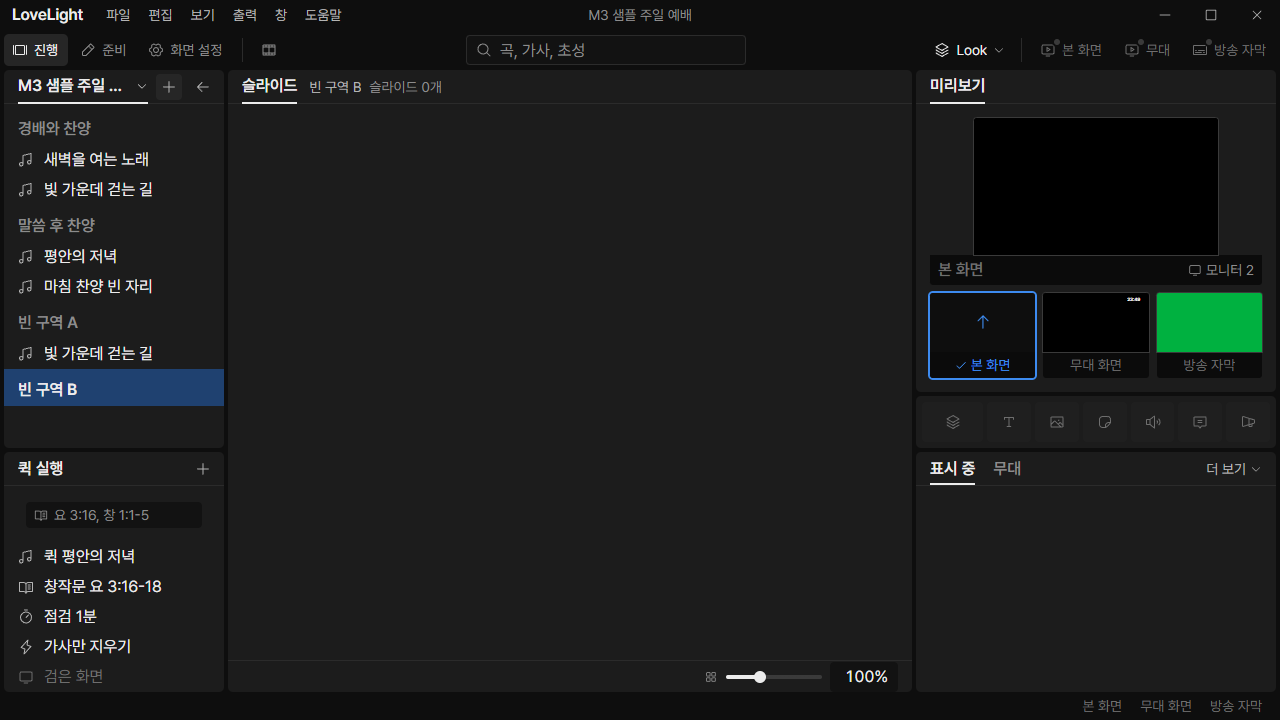
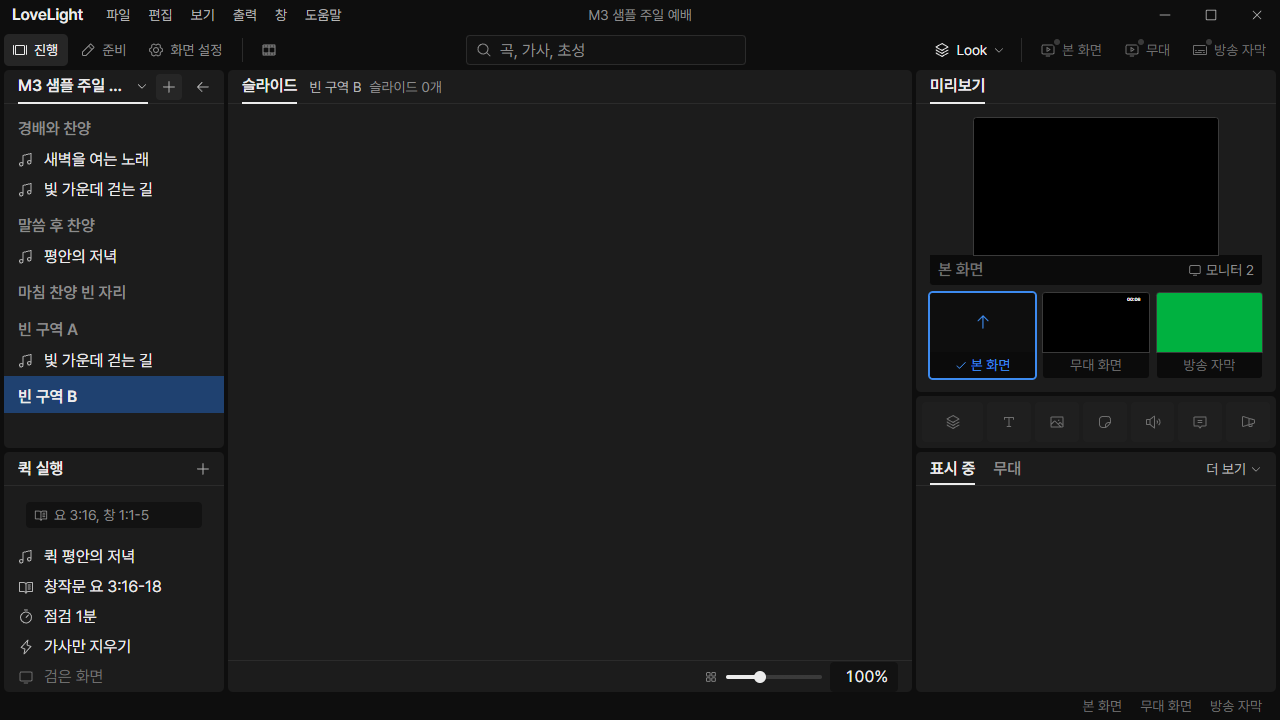
fix(show): defer section rename until the menu releases focus

Changed region(s): [[0.0, 0.3667, 0.1875, 0.5806]]

diff --git a/src/renderer/src/show/ServiceOrderList.tsx b/src/renderer/src/show/ServiceOrderList.tsx
@@ -187,6 +187,10 @@ export function ServiceOrderList({
     serviceId: string | null;
     anchor: MenuAnchor;
   } | null>(null);
+  const [pendingRename, setPendingRename] = useState<{
+    readonly id: string;
+    readonly serviceId: string | null;
+  } | null>(null);
   const listRef = useRef<HTMLDivElement>(null);
   const [chosenRename, setRenaming] = useState<string | null>(null);
   const requestedRename = useHeaderRename(state => state.requested);
@@ -199,6 +203,23 @@ export function ServiceOrderList({
     setRenaming(null);
     clearRenameRequest();
   };
+
+  useEffect(() => {
+    if (menu !== null || pendingRename === null) return;
+    // NOTE(0913vision): Menu restores its opener on cleanup; the field must
+    // take focus after that handoff rather than blur and commit immediately.
+    const handoff = setTimeout(() => {
+      setPendingRename(null);
+      if (
+        pendingRename.serviceId === serviceId &&
+        editable &&
+        rows.some(row => row.id === pendingRename.id && row.kind === 'header')
+      ) {
+        setRenaming(pendingRename.id);
+      }
+    });
+    return () => clearTimeout(handoff);
+  }, [menu, pendingRename, serviceId, editable, rows]);
 
   useEffect(() => {
     const list = listRef.current;
@@ -362,7 +383,10 @@ export function ServiceOrderList({
                     label: '이름 바꾸기',
                     disabled: !editable,
                     onSelect: () => {
-                      setRenaming(menu.id);
+                      setPendingRename({
+                        id: menu.id,
+                        serviceId: menu.serviceId,
+                      });
                       setMenu(null);
                     },
                   },

diff --git a/src/renderer/src/show/ServiceOrderEditing.test.tsx b/src/renderer/src/show/ServiceOrderEditing.test.tsx
@@ -151,6 +151,25 @@ beforeEach(() => {
 });
 
 describe('service panel editing', () => {
+  it('hands focus from a selected section context menu to its rename field', async () => {
+    const {api} = setup('prep');
+    const user = userEvent.setup();
+    const section = screen.getByRole('option', {name: '제목'});
+    await user.click(section);
+    section.focus();
+    expect(document.activeElement).toBe(section);
+    fireEvent.contextMenu(section);
+    await user.click(
+      await screen.findByRole('menuitem', {name: '이름 바꾸기'}),
+    );
+    const field = await screen.findByRole('textbox', {name: '제목 이름'});
+    await waitFor(() => expect(document.activeElement).toBe(field));
+    await user.clear(field);
+    await user.type(field, '바뀐 구역{Enter}');
+    await screen.findByRole('option', {name: '바뀐 구역'});
+    expect(api.content.edit).toHaveBeenCalledTimes(1);
+  });
+
   it('selects an empty section and keeps it when a dropped song is added below it', async () => {
     const {ids, send} = setup('prep', false, {emptySection: true});
     const target = screen.getByRole('option', {name: '빈 구역'});
@@ -417,7 +436,7 @@ describe('service panel editing', () => {
     const {api} = setup();
     fireEvent.contextMenu(screen.getByText('제목'));
     fireEvent.click(await screen.findByRole('menuitem', {name: '이름 바꾸기'}));
-    const field = screen.getByRole('textbox', {name: '제목 이름'});
+    const field = await screen.findByRole('textbox', {name: '제목 이름'});
     fireEvent.change(field, {target: {value: '   '}});
     fireEvent.keyDown(field, {key: 'Enter'});
     await waitFor(() => expect(screen.queryByRole('textbox')).toBeNull());

diff --git a/docs/reviews/ui-52.md b/docs/reviews/ui-52.md
@@ -29,12 +29,11 @@ The rebase retains tools-13's midpoint and drag-release click guard. Geometry
 now reads the actual option face for selectable headers; the preserved tests
 cover list-top drops and moving whole sections across the midpoint.
 
-Coordination: spec-58 is on local main (`a5bba3d7`). Data owns legacy
-slot-to-header normalization and its read/write contracts. This request does not
-change the stored format or duplicate normalization. A legacy slot arriving as a
-section uses the same selectable-header path. Existing slot rendering remains
-available until those normalized documents arrive; there is no creation or fill
-action.
+Coordination: spec-58 (`a5bba3d7`) and data-71 normalization (`3ca885ad`) are on
+local main. This request uses data's reader instead of duplicating
+normalization. The migrated-section regression is retained, and the app exercise
+confirms the old sample slot arrives as a selectable header with its title
+preserved.
 
 ## Changes outside my paths
 
@@ -58,25 +57,30 @@ started hidden. CDP drove pointer/key/text input and captured the real window.
 
 - Added two consecutive empty sections, renamed them, selected the first and
   opened 항목 추가. Confirmed the menu has no 빈 자리 entry.
+- Round 2: focused a section, opened its native context menu, chose 이름 바꾸기
+  and waited past menu cleanup. The field stayed focused with its text selected;
+  typed a new name and saved with Enter before continuing the flow.
 - Inserted the library song 빛 가운데 걷는 길 through that menu. Read the
   accepted document through the real API: first header, new song, second header,
   with the first section still selected. Both section rows remain.
 - Switched the two sections back and forth 20 times, then another 20 times.
   Opened/closed the quick-add menu twice. No outputs were enabled.
-- Matched checkpoints retain 430 DOM elements and 9 options. Collected JS heap
-  after warmup was 5,788,568 then 5,951,816 bytes; backing storage was 1,685,579
-  then 1,685,585 bytes. No horizontal outer scroll or accumulated rows were
-  observed. These are short regression repetitions, not a long-running soak.
+- Matched checkpoints retain 431 DOM elements and 9 options. Collected JS heap
+  after warmup was 5,840,212 then 5,980,716 bytes; backing storage stayed at
+  1,689,362 bytes. No horizontal outer scroll or accumulated rows were observed.
+  These are short regression repetitions, not a long-running soak.
 
 ![Quick add targets the selected empty section](assets/ui-52/quick-add.png)
 
 ![The added song stays between the two section rows](assets/ui-52/inserted.png)
 
+![Round 2: rename field keeps focus after the context menu closes](assets/ui-52/rename-focus.png)
+
 [Selected final empty section](assets/ui-52/empty-section.png),
 [measured DOM/heap and accepted order](assets/ui-52/metrics.json).
 
-The retained legacy slot visible in the old sample is existing data, not a menu
-command. Data's normalization converts it to a section on read.
+The old sample name containing 빈 자리 is preserved as a section title by data's
+normalization. It is not a slot or a menu command.
 
 ## Checks run
 
@@ -88,4 +92,9 @@ command. Data's normalization converts it to a section on read.
 
 ## Team member's reply
 
-Pending review.
+Round 2: Reproduced the focused-section context-menu failure with a regression
+that fails before the fix. The rename request now captures its service and
+section, waits for menu cleanup/focus restoration, then opens the field. The
+pending handoff is released on cleanup and checked against the current editable
+service and section before it runs. The regression focuses the section before
+opening its menu, keeps focus in the field and commits the edited name once.
